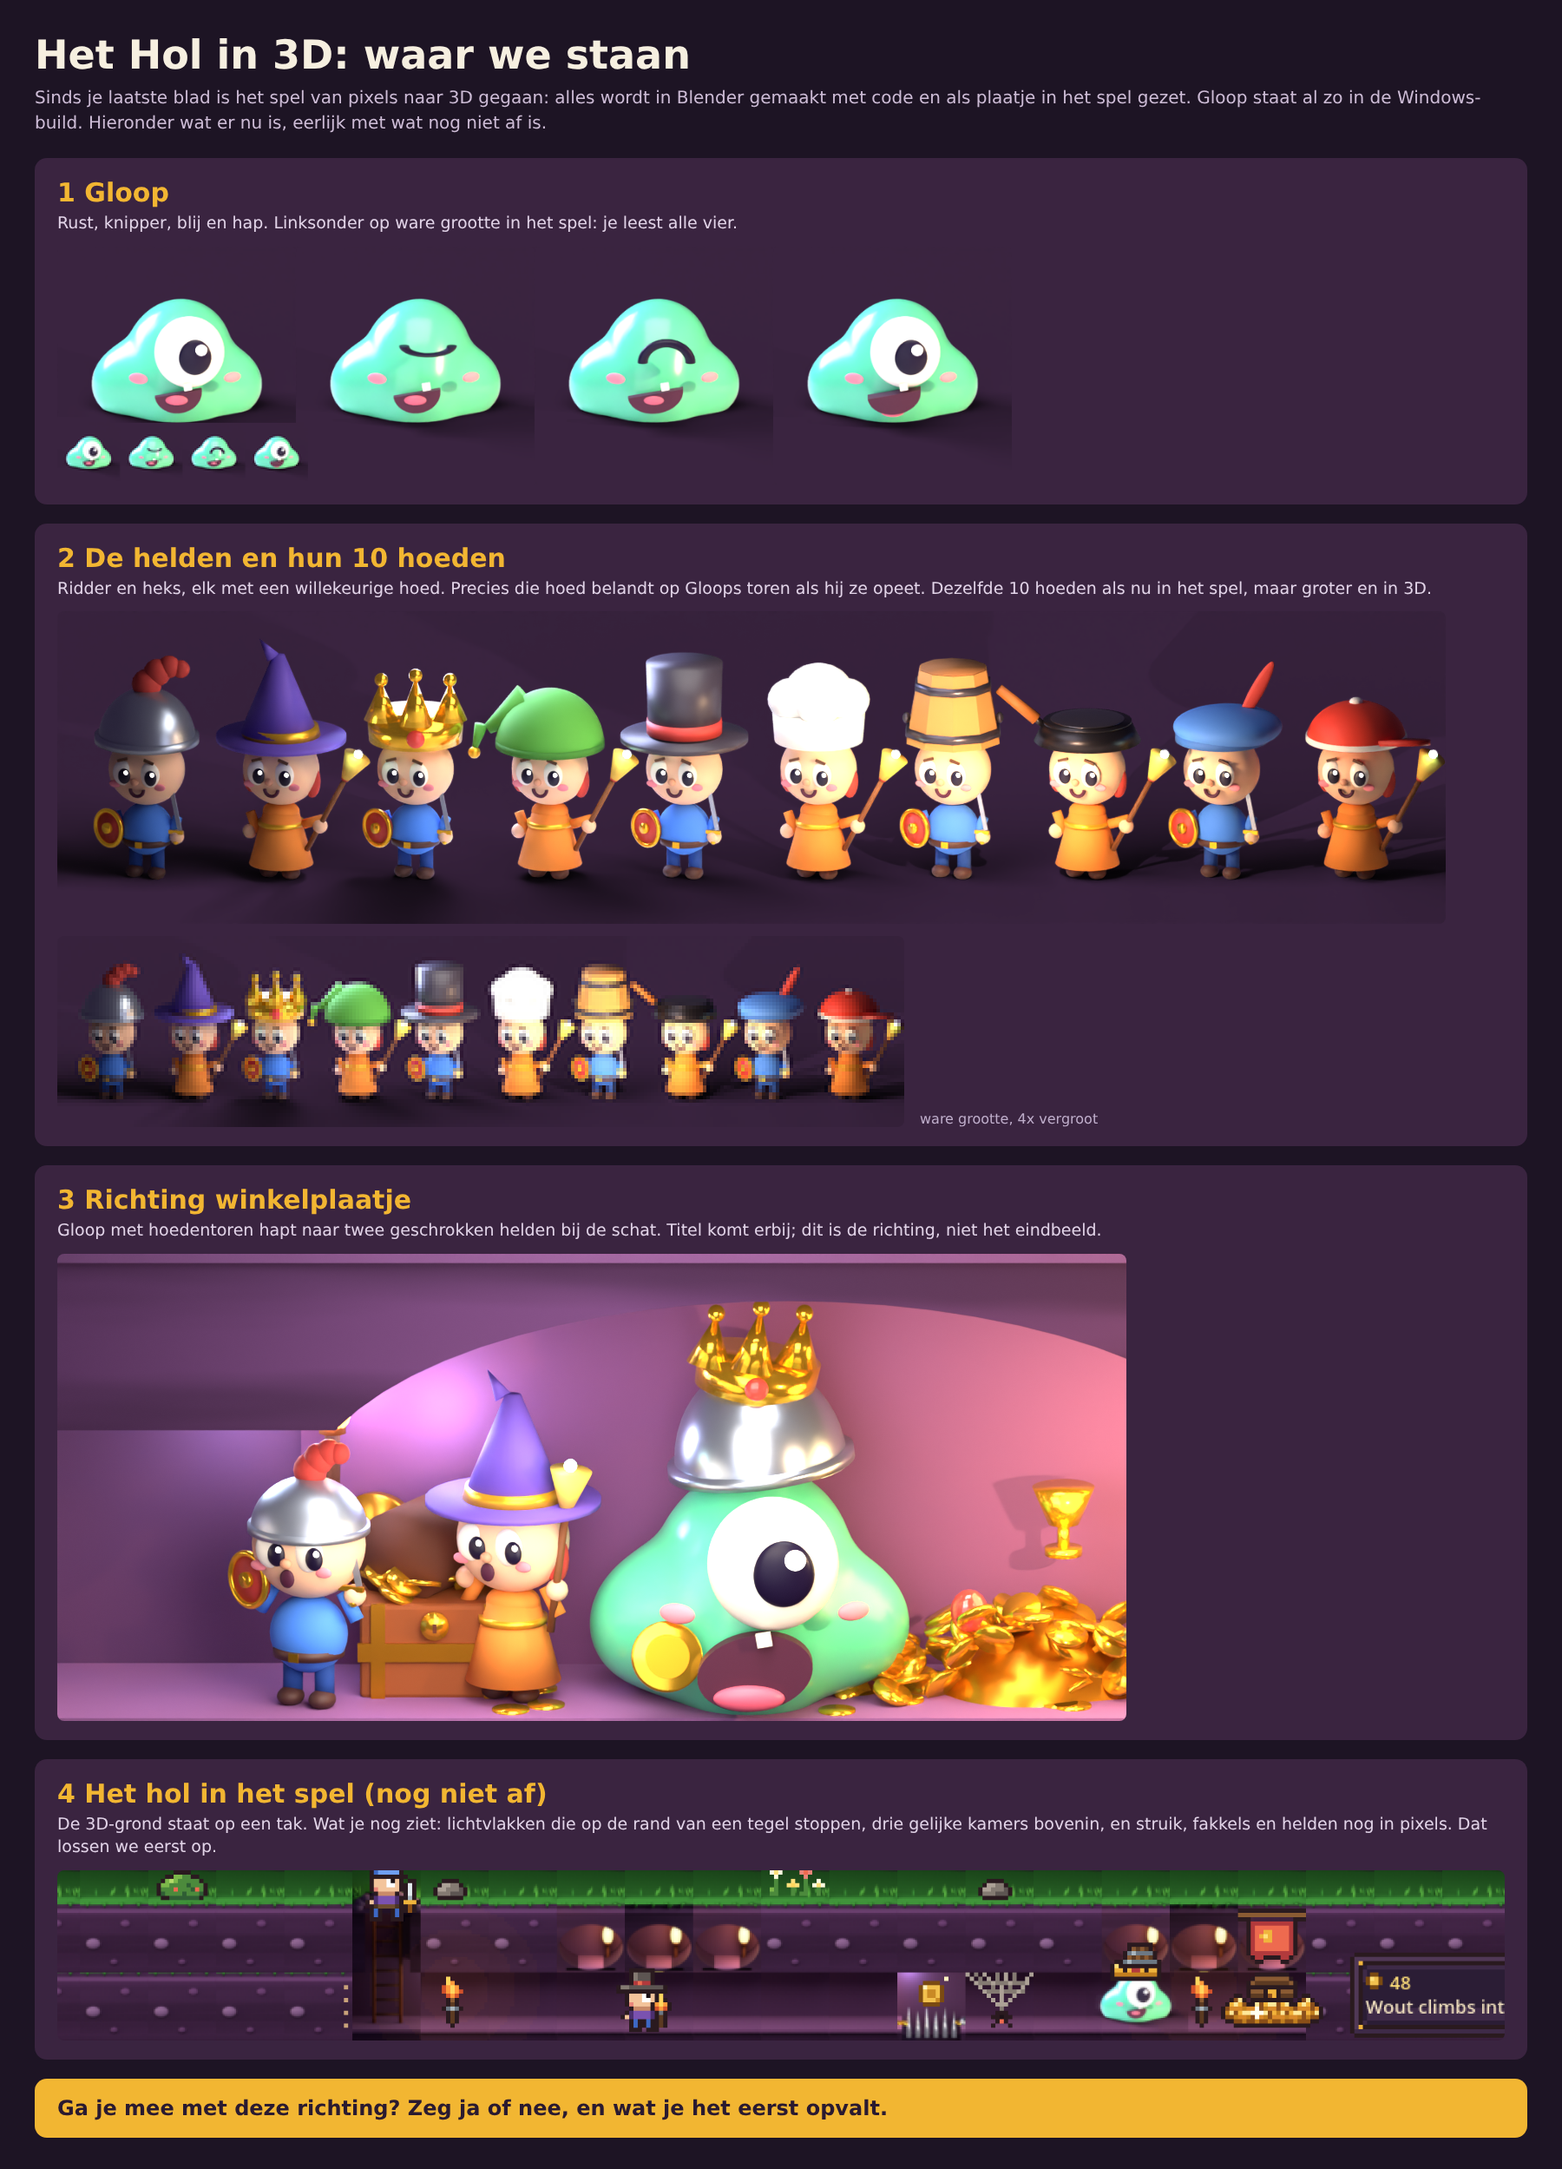
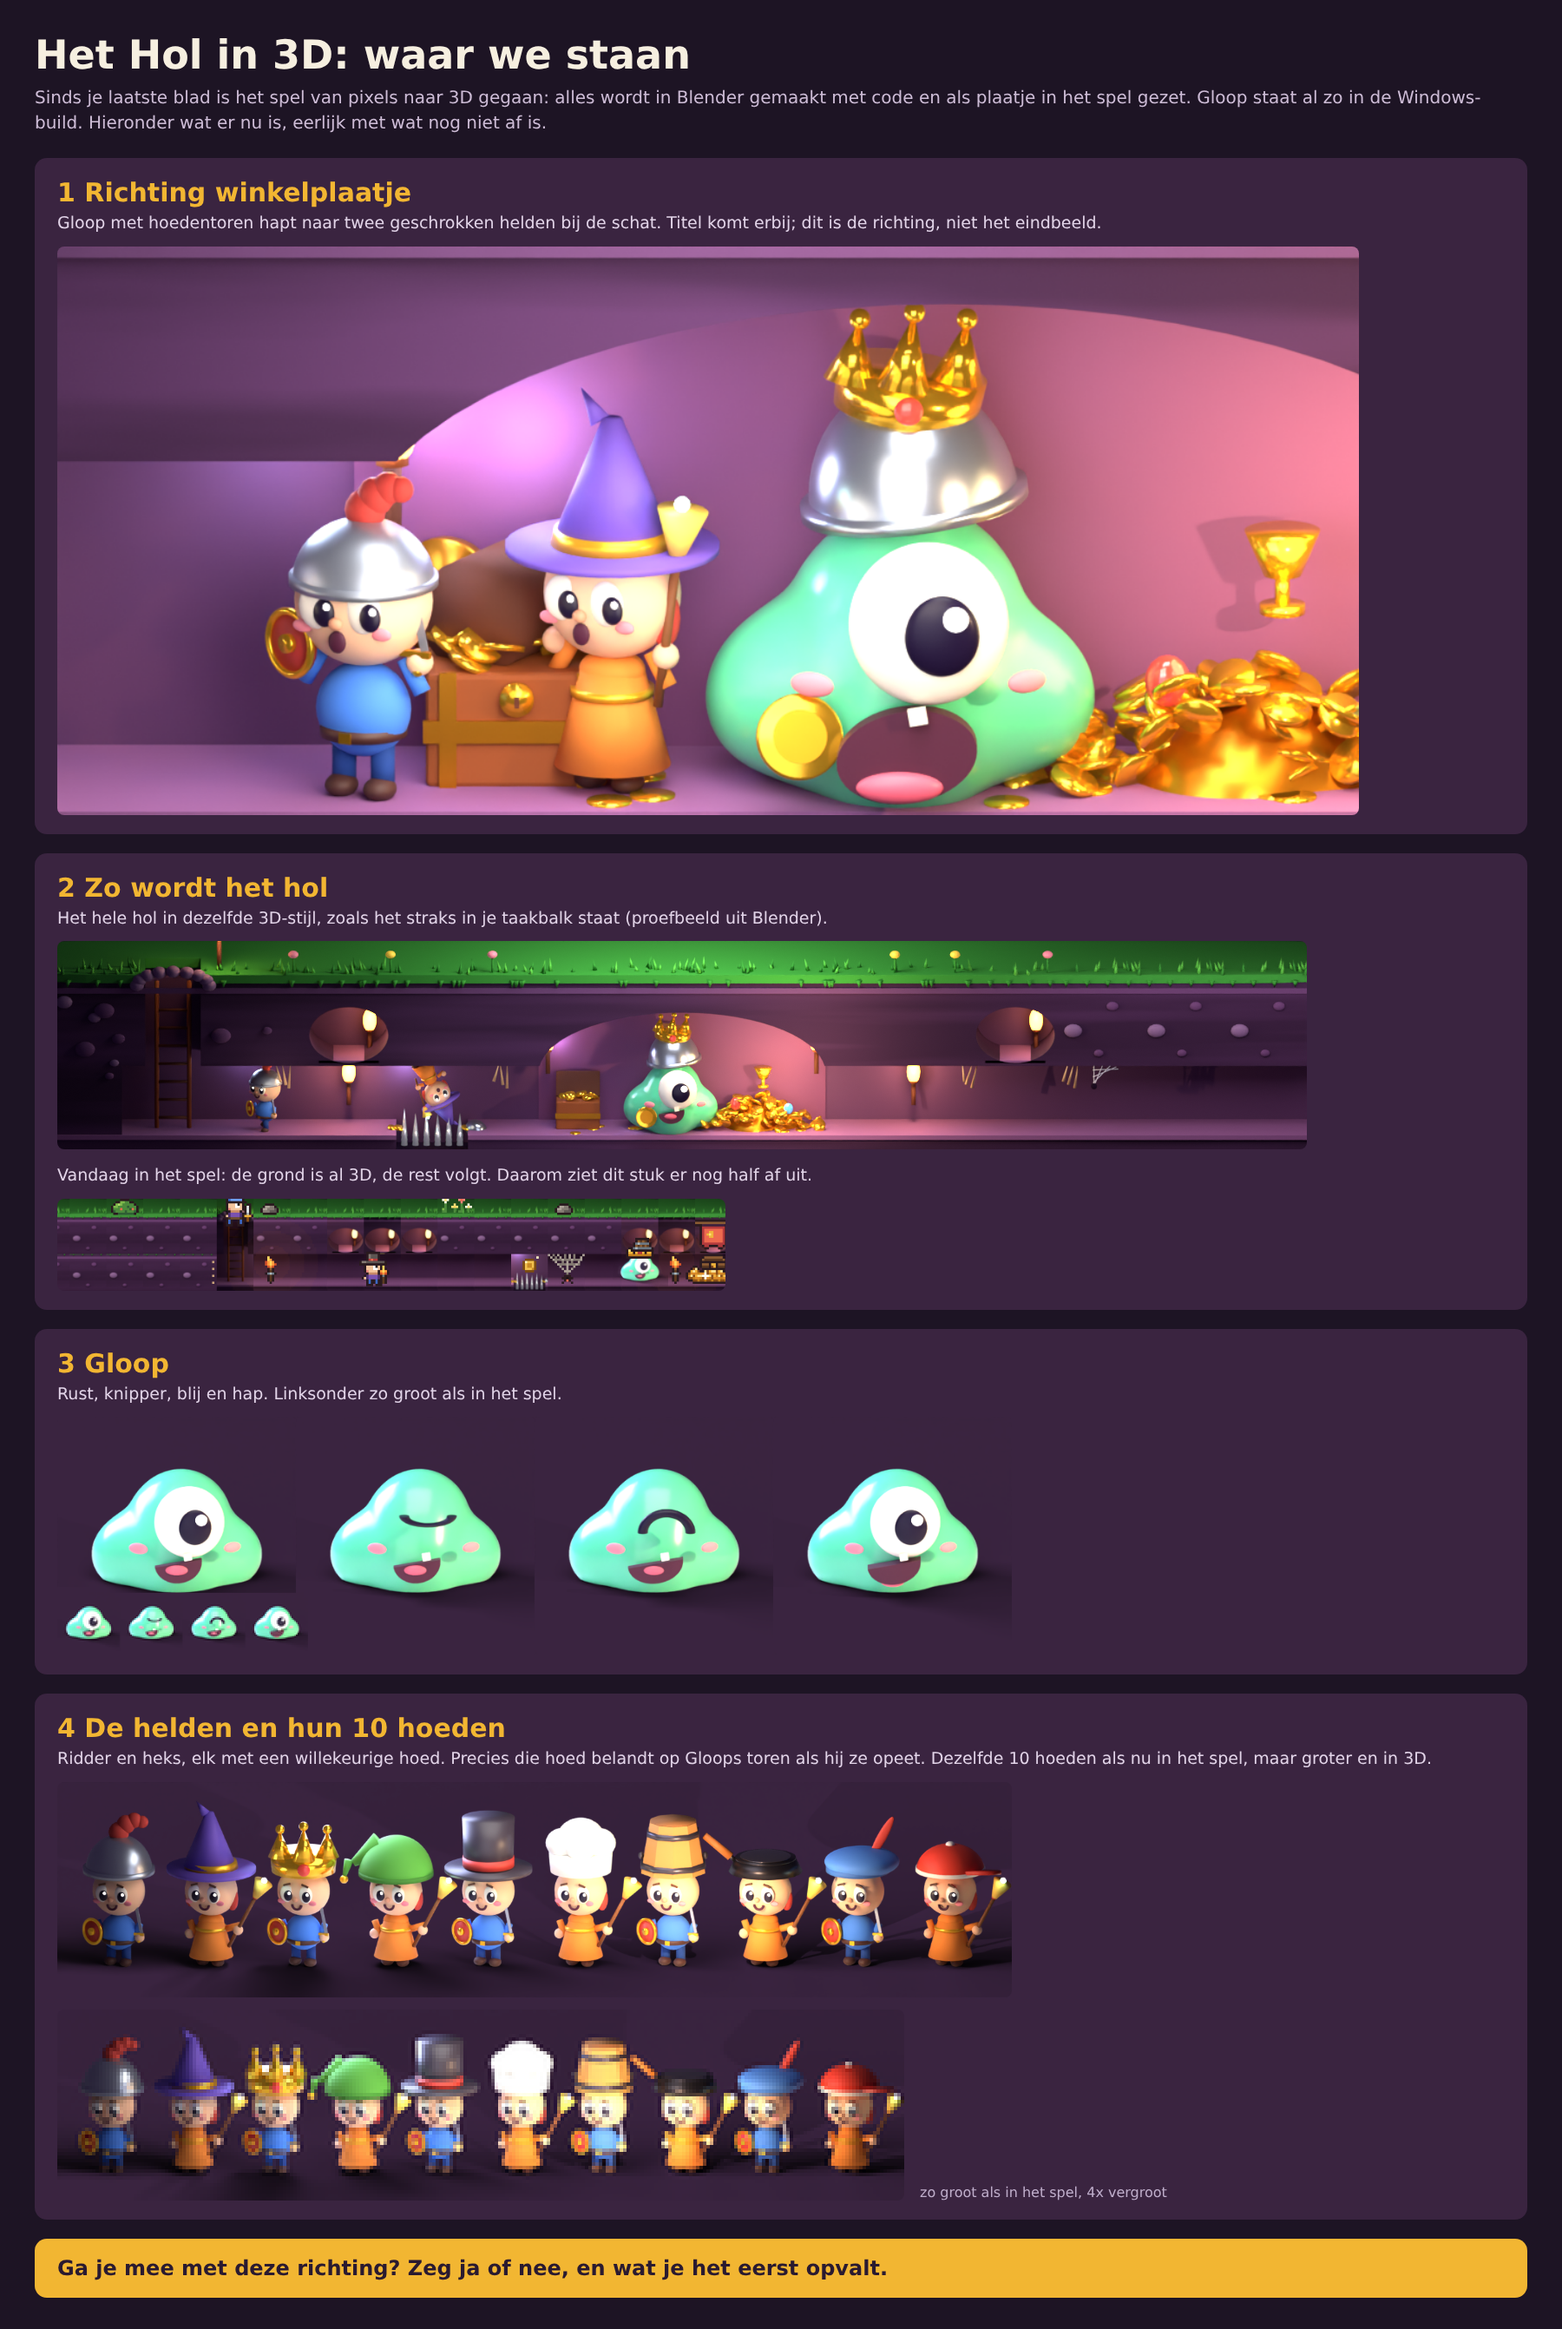
Daan: blad 3D concept 2 na frisse kijker
Claude-Session: https://claude.ai/code/session_01RMWUyhG3PaCJXZN5iNxRjr

diff --git a/ontwerp/steam/blad-3d/blad.html b/ontwerp/steam/blad-3d/blad.html
@@ -13,9 +13,9 @@ img{display:block;max-width:100%;border-radius:8px}
 </style></head><body><div class="w">
 <h1>Het Hol in 3D: waar we staan</h1>
 <p class="s">Sinds je laatste blad is het spel van pixels naar 3D gegaan: alles wordt in Blender gemaakt met code en als plaatje in het spel gezet. Gloop staat al zo in de Windows-build. Hieronder wat er nu is, eerlijk met wat nog niet af is.</p>
-<div class="k"><h2>1 Gloop</h2><p>Rust, knipper, blij en hap. Linksonder op ware grootte in het spel: je leest alle vier.</p><img src="../gloop-3d/ronde2-standen.png" style="width:1100px"></div>
-<div class="k"><h2>2 De helden en hun 10 hoeden</h2><p>Ridder en heks, elk met een willekeurige hoed. Precies die hoed belandt op Gloops toren als hij ze opeet. Dezelfde 10 hoeden als nu in het spel, maar groter en in 3D.</p><img src="../hoeden-3d/helden-met-hoed-v2.png"><div class="r" style="margin-top:14px"><img src="../hoeden-3d/helden-met-hoed-v2-55px-4x.png" style="width:976px"><div class="n">ware grootte, 4x vergroot</div></div></div>
-<div class="k"><h2>3 Richting winkelplaatje</h2><p>Gloop met hoedentoren hapt naar twee geschrokken helden bij de schat. Titel komt erbij; dit is de richting, niet het eindbeeld.</p><img src="../helden-3d/winkel-closeup-proef6-breed.png" style="width:1232px"></div>
-<div class="k"><h2>4 Het hol in het spel (nog niet af)</h2><p>De 3D-grond staat op een tak. Wat je nog ziet: lichtvlakken die op de rand van een tegel stoppen, drie gelijke kamers bovenin, en struik, fakkels en helden nog in pixels. Dat lossen we eerst op.</p><img src="hol.png"></div>
+<div class="k"><h2>1 Richting winkelplaatje</h2><p>Gloop met hoedentoren hapt naar twee geschrokken helden bij de schat. Titel komt erbij; dit is de richting, niet het eindbeeld.</p><img src="../helden-3d/winkel-closeup-proef6-breed.png" style="width:1500px"></div>
+<div class="k"><h2>2 Zo wordt het hol</h2><p>Het hele hol in dezelfde 3D-stijl, zoals het straks in je taakbalk staat (proefbeeld uit Blender).</p><img src="../hol-3d/ronde4-2x.png" style="width:1440px"><p style="margin-top:16px">Vandaag in het spel: de grond is al 3D, de rest volgt. Daarom ziet dit stuk er nog half af uit.</p><img src="hol.png" style="width:770px;height:106px;object-fit:cover;object-position:left"></div>
+<div class="k"><h2>3 Gloop</h2><p>Rust, knipper, blij en hap. Linksonder zo groot als in het spel.</p><img src="../gloop-3d/ronde2-standen.png" style="width:1100px"></div>
+<div class="k"><h2>4 De helden en hun 10 hoeden</h2><p>Ridder en heks, elk met een willekeurige hoed. Precies die hoed belandt op Gloops toren als hij ze opeet. Dezelfde 10 hoeden als nu in het spel, maar groter en in 3D.</p><img src="../hoeden-3d/helden-met-hoed-v2.png" style="width:1100px"><div class="r" style="margin-top:14px"><img src="../hoeden-3d/helden-met-hoed-v2-55px-4x.png" style="width:976px"><div class="n">zo groot als in het spel, 4x vergroot</div></div></div>
 <div class="vraag">Ga je mee met deze richting? Zeg ja of nee, en wat je het eerst opvalt.</div>
 </div></body></html>

diff --git a/ontwerp/logboek.md b/ontwerp/logboek.md
@@ -816,4 +816,5 @@ Bekeken: Olafs vraag (10, 12 of 15 beelden per s), de film `producten/steam-hol/
 Bekeken: berichten (niets nieuws voor mij sinds 16:00), Mila's ronde 4 en Brams vragen (niet aan mij), mijn eigen volgende-lijst. Gemaakt: `ontwerp/steam/helden-3d/titel_3d.py` (Hats of the Fallen in goud met een hoed op elke letter, Lilita One, OFL), kist met slot en banden, close-up breed en `capsule-main-proef2.png`. Frisse kijker 6 van 10: de taakbalkband onderin leest als rommelig bureaublad, figuren staan in een rij zonder actie. Besluit: taakbalk naar schermafbeelding 1 en trailer, capsule wordt key art met titel en een moment met actie (vallende hoed die naar Gloop vliegt). Waarom: een capsule heeft één tel, en dan moet hij het spel en de grap vertellen, niet de techniek. Blad voor Thijs blijft ma 16 nov. Gereedschap: Blender-tekst met een eigen lettertype werkt goed (±25 s per titel).
 
 ## 13 nov 2026, ±19:15 tot 19:45 UTC (Daan, geplande run): hol 3D gekeurd, hoeden in 3D
-Bekeken: berichten (Bram: standen en helden in de pijplijn, alleen ter info), Olafs vraag over het hol in 3D (beeld `bewijs-hol3d/hol3d-120-2x.png` op tak `claude/steam-hol-hol3d`, op 2x en 4x), Brams vraag over hoeden (A of B), de pixelhoeden `kunst/held_hoeden.png`. Besluit hol: nog niet één spel, wel naar main zolang het niet in een build voor spelers gaat; moet 1 (licht stopt op celranden), moet 2 (groene spikkels uit het blad), moet 3 (drie gelijke kamers lezen als ogen). Besluit hoeden: **A**, want de bonte toren is de grap en het winkelplaatje. Gemaakt: `held.py` hoeden heten `hoed_...`, nieuw `modellen/hoeden.py` met alle 10, beelden in `ontwerp/steam/hoeden-3d/`. Eigen oordeel: op 55 px elke hoed herkenbaar, heks blijft heks zonder punthoed. Gereedschap: bpy 5.2.4 vraagt Python 3.13 (met 3.11 vindt pip alleen tot 5.0.1). Volgende run: frisse kijker op helden met hoed, hoeden op Gloops toren gelijktrekken als Bram de tekenkant heeft, blad Gloop voor Thijs (ma 16 nov). Aanvulling ±19:42: frisse kijker v1 leesbaar 5 (emmer, pan, pet onduidelijk), ronde 2 gemaakt: hoed op schaal 1,3, emmer, pan en pet nieuw; eigen oordeel alle 10 te noemen op 55 px. Aanvulling ±19:50: antwoord Olaf gelijke stappen (b) (elke stap 1 spelpixel, vluchten 2; karakter via het lopen, niet via een rest). Concept nieuw blad voor Thijs `ontwerp/steam/blad-3d/` (Gloop, helden met hoeden, richting winkelplaatje, hol in het spel eerlijk als nog niet af); het oude Gloop-blad is achterhaald door de overstap naar 3D. Gaat ma 16 nov op de lijst na een frisse kijker.
+Bekeken: berichten (Bram: standen en helden in de pijplijn, alleen ter info), Olafs vraag over het hol in 3D (beeld `bewijs-hol3d/hol3d-120-2x.png` op tak `claude/steam-hol-hol3d`, op 2x en 4x), Brams vraag over hoeden (A of B), de pixelhoeden `kunst/held_hoeden.png`. Besluit hol: nog niet één spel, wel naar main zolang het niet in een build voor spelers gaat; moet 1 (licht stopt op celranden), moet 2 (groene spikkels uit het blad), moet 3 (drie gelijke kamers lezen als ogen). Besluit hoeden: **A**, want de bonte toren is de grap en het winkelplaatje. Gemaakt: `held.py` hoeden heten `hoed_...`, nieuw `modellen/hoeden.py` met alle 10, beelden in `ontwerp/steam/hoeden-3d/`. Eigen oordeel: op 55 px elke hoed herkenbaar, heks blijft heks zonder punthoed. Gereedschap: bpy 5.2.4 vraagt Python 3.13 (met 3.11 vindt pip alleen tot 5.0.1). Volgende run: frisse kijker op helden met hoed, hoeden op Gloops toren gelijktrekken als Bram de tekenkant heeft, blad Gloop voor Thijs (ma 16 nov). Aanvulling ±19:42: frisse kijker v1 leesbaar 5 (emmer, pan, pet onduidelijk), ronde 2 gemaakt: hoed op schaal 1,3, emmer, pan en pet nieuw; eigen oordeel alle 10 te noemen op 55 px. Aanvulling ±19:45: antwoord Olaf gelijke stappen (b) (elke stap 1 spelpixel, vluchten 2; karakter via het lopen, niet via een rest). Concept nieuw blad voor Thijs `ontwerp/steam/blad-3d/` (Gloop, helden met hoeden, richting winkelplaatje, hol in het spel eerlijk als nog niet af); het oude Gloop-blad is achterhaald door de overstap naar 3D. Gaat ma 16 nov op de lijst na een frisse kijker.
+ Frisse kijker op het blad: 7, concept 2 gemaakt (winkelplaatje boven, Mila's 3D-hol als doelbeeld).

diff --git a/ontwerp/steam/blad-3d/LEESMIJ.md b/ontwerp/steam/blad-3d/LEESMIJ.md
@@ -1,5 +1,7 @@
-# Blad voor Thijs: Het Hol in 3D (concept, Daan, 13 nov 19:50 UTC)
+# Blad voor Thijs: Het Hol in 3D (concept, Daan, 13 nov 19:45 UTC)
 
 `hol-3d-blad-voor-thijs-concept.png` vervangt straks `../gloop-blad-voor-thijs.png` (dat blad toont nog de pixel-Gloops van vóór de overstap naar 3D en is dus achterhaald). Bron: `blad.html` (plaatjes uit `gloop-3d/`, `hoeden-3d/`, `helden-3d/`; `hol.png` is Olafs beeld van tak `claude/steam-hol-hol3d`, 05c19b6), schermafbeelding met Playwright op 1800 breed.
 
 Gaat ma 16 nov op `organisatie/lijst-thijs.md`, na: frisse kijker op dit blad, moet 1 en 2 van het hol (licht op celranden, groene spikkels) als Olaf en Bram dat voor die tijd hebben, en vak 4 dan opnieuw. Eén vraag aan Thijs: ga je mee met deze richting, ja of nee.
+
+Frisse kijker op concept 1: een 7; "het winkelplaatje verkoopt de richting, het spelbeeld haalt de indruk onderuit". Verwerkt in concept 2: winkelplaatje bovenaan, Mila's 3D-hol (`hol-3d/ronde4-2x.png`) als "zo wordt het hol", het beeld van vandaag klein eronder zonder jargon en zonder het afgesneden tekstvak, helden kleiner.
